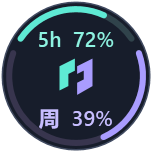
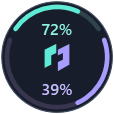
Release v3.2.1: simplify window chrome, orb labels and appearance settings

diff --git a/src/Views.cs b/src/Views.cs
@@ -64,7 +64,7 @@ namespace TokenMonitor {
         public Shell(string title,string sub,string accent,double width,double height,bool floating,bool formal=false) {
             this.formal=formal;
             Title=title=="Token Monitor"?title:title+" · Token Monitor";Width=width;Height=height;Topmost=floating;ShowInTaskbar=!floating;
-            WindowStyle=formal?WindowStyle.SingleBorderWindow:WindowStyle.None;ResizeMode=formal||floating?ResizeMode.CanResize:ResizeMode.NoResize;AllowsTransparency=!formal;Background=Brushes.Transparent;
+            WindowStyle=WindowStyle.None;ResizeMode=formal?ResizeMode.CanMinimize:floating?ResizeMode.CanResize:ResizeMode.NoResize;AllowsTransparency=true;Background=Brushes.Transparent;
             MinWidth=floating?300:width;MinHeight=floating?210:100;
             FontFamily=new FontFamily("Segoe UI, Microsoft YaHei UI");
             UseLayoutRounding=true;SnapsToDevicePixels=true;
@@ -73,15 +73,16 @@ namespace TokenMonitor {
             Surface=new Border { BorderThickness=new Thickness(1),CornerRadius=new CornerRadius(18),Margin=new Thickness(12),
                 Effect=new DropShadowEffect { BlurRadius=18,ShadowDepth=3,Opacity=0.12,Color=Colors.Black } };
             Appearance.Paint(Surface,Border.BackgroundProperty,"#F5F7F8");Appearance.Paint(Surface,Border.BorderBrushProperty,"#E2E6E8");
-            if(formal) {Surface.Margin=new Thickness(0);Surface.CornerRadius=new CornerRadius(0);Surface.Effect=null;MinWidth=760;MinHeight=560;AutoHeight=false;}
+            if(formal) {Surface.Margin=new Thickness(0);Surface.CornerRadius=new CornerRadius(14);Surface.Effect=null;MinWidth=760;MinHeight=560;AutoHeight=false;}
             var root=new Grid();root.Children.Add(Surface);Content=root;
             var layout=new DockPanel { LastChildFill=true };ContentPanel=layout;Surface.Child=layout;
             SourceInitialized+=(s,e)=>Appearance.ApplyTitleBar(this);
             titleArea=new Border { Padding=new Thickness(19,17,14,14),Background=Brushes.Transparent,Cursor=Cursors.SizeAll };
             titleArea.MouseLeftButtonDown+=(s,e)=> { if(e.ChangedButton==MouseButton.Left && !e.Handled) { try {DragMove();} catch {} } };
             var mark=new Border { Background=UI.Brush(accent),Width=7,Height=7,CornerRadius=new CornerRadius(4),Margin=new Thickness(0,0,8,0),VerticalAlignment=VerticalAlignment.Center };
-            var heading=new StackPanel {Orientation=Orientation.Horizontal};heading.Children.Add(mark);heading.Children.Add(UI.Text(title,14,UI.Ink,true));
-            var words=new StackPanel();words.Children.Add(heading);Subtitle=UI.Text(sub,10.5,UI.Muted);Subtitle.Margin=new Thickness(15,4,0,0);words.Children.Add(Subtitle);
+            FrameworkElement brand=formal?Brand.Mark(28):mark;brand.Margin=new Thickness(0,0,8,0);brand.VerticalAlignment=VerticalAlignment.Center;if(formal)AutomationProperties.SetName(brand,"Token Monitor 标志");
+            var heading=new StackPanel {Orientation=Orientation.Horizontal};heading.Children.Add(brand);heading.Children.Add(UI.Text(title,14,UI.Ink,true));
+            var words=new StackPanel();words.Children.Add(heading);Subtitle=UI.Text(sub,10.5,UI.Muted);Subtitle.Margin=new Thickness(formal?36:15,4,0,0);words.Children.Add(Subtitle);
             var close=UI.Button("×",()=>{if(CloseAction!=null)CloseAction();else Close();},floating?"隐藏此悬浮窗":"收起到托盘");
             close.FontSize=20;close.Padding=new Thickness(8,0,8,2);close.Background=Brushes.Transparent;close.VerticalAlignment=VerticalAlignment.Top;close.Cursor=Cursors.Hand;
             AutomationProperties.SetName(close,floating?"隐藏"+title:"收起控制面板");
@@ -90,7 +91,11 @@ namespace TokenMonitor {
                 var fit=UI.Button("↕",()=>FitToContent(),"贴合内容高度");fit.Padding=new Thickness(7,3,7,3);fit.FontSize=16;fit.Background=Brushes.Transparent;
                 AutomationProperties.SetName(fit,"贴合内容高度");titleButtons.Children.Add(fit);
             }
-            if(!formal)titleButtons.Children.Add(close);
+            if(formal) {
+                var minimize=UI.Button("−",()=>WindowState=WindowState.Minimized,"最小化");minimize.FontSize=20;minimize.Width=38;minimize.Height=34;minimize.Padding=new Thickness(0);minimize.Background=Brushes.Transparent;AutomationProperties.SetName(minimize,"最小化");titleButtons.Children.Add(minimize);
+                close.Width=38;close.Height=34;close.Padding=new Thickness(0);close.ToolTip="关闭窗口，继续在托盘运行";AutomationProperties.SetName(close,"关闭窗口");
+            }
+            titleButtons.Children.Add(close);
             titleArea.Child=UI.Row(words,titleButtons);DockPanel.SetDock(titleArea,Dock.Top);layout.Children.Add(titleArea);
             Scroll=new ScrollViewer { VerticalScrollBarVisibility=ScrollBarVisibility.Auto,HorizontalScrollBarVisibility=ScrollBarVisibility.Disabled,Padding=new Thickness(18,0,18,16),Content=Body };
             layout.Children.Add(Scroll);
@@ -187,7 +192,7 @@ namespace TokenMonitor {
         readonly CardPanel services;
         readonly DashboardCard gptCard,deepCard,openCard;
         public SettingsView SettingsPage {get;private set;}
-        public MainView(MonitorApp app):base("Token Monitor","用量控制中心  /  v3.2.0",UI.Green,1180,760,false,true) {
+        public MainView(MonitorApp app):base("Token Monitor","用量控制中心  /  v3.2.1",UI.Green,1180,760,false,true) {
             this.app=app;
             ResizeMode=ResizeMode.CanMinimize;Width=Math.Min(1180,SystemParameters.WorkArea.Width);Height=Math.Min(760,SystemParameters.WorkArea.Height);MinWidth=Math.Min(760,Width);MinHeight=Math.Min(560,Height);
             ContentPanel.Children.Remove(Scroll);
@@ -221,9 +226,7 @@ namespace TokenMonitor {
             Interval.SelectionChanged+=(s,e)=>{app.Prefs.Interval=new[]{15,30,60,120}[Interval.SelectedIndex];app.Save();app.UpdateLabels();};
             var auto=new StackPanel {Orientation=Orientation.Horizontal};var autoLabel=UI.Text("自动刷新",12,UI.Muted);autoLabel.VerticalAlignment=VerticalAlignment.Center;autoLabel.Margin=new Thickness(0,0,12,0);auto.Children.Add(autoLabel);auto.Children.Add(Interval);auto.Margin=new Thickness(2,3,2,16);Body.Children.Add(auto);
             Refresh=UI.Button("立即刷新",async()=>await app.RefreshAll(true));Refresh.SetResourceReference(Button.BackgroundProperty,"ActionBrush");Refresh.SetResourceReference(Button.ForegroundProperty,"ActionInkBrush");
-            var actions=new StackPanel { Orientation=Orientation.Horizontal };
-            actions.Children.Add(Refresh);var settings=UI.Button("设置",()=>OpenSettings("外观设置"));settings.Margin=new Thickness(8,0,0,0);actions.Children.Add(settings);
-            var exit=UI.Button("退出",()=>app.Quit());exit.Margin=new Thickness(8,0,0,0);actions.Children.Add(exit);TitleButtons.Children.Add(actions);
+            Refresh.Margin=new Thickness(16,0,0,0);auto.Children.Add(Refresh);
             var note=UI.Text("悬浮球可拖动 · 双击展开详情 · 右键打开菜单 · 关闭主界面后继续在托盘运行",10.5,UI.Muted);note.Margin=new Thickness(1,13,0,0);Body.Children.Add(note);
             var updatePanel=new StackPanel {Margin=new Thickness(0,14,0,0)};
             UpdateStatus=UI.Text("启动时及每 6 小时自动检查更新",11,UI.Muted);updatePanel.Children.Add(UpdateStatus);
@@ -238,17 +241,17 @@ namespace TokenMonitor {
             if(SettingsPage!=null&&SettingsPage.Busy)return;
             if(SettingsPage==null)SettingsPage=new SettingsView(app,ShowOverview,true);
             workspace.Children.Clear();workspace.Children.Add(SettingsPage);
-            SettingsPage.SelectPage(page);SelectNavigation(page);Subtitle.Text="设置  /  v3.2.0";
+            SettingsPage.SelectPage(page);SelectNavigation(page);Subtitle.Text="设置  /  v3.2.1";
         }
         public void HistoryChanged() {if(history!=null&&workspace.Children.Contains(history))history.Render();}
         public void ShowHistory() {
             if(SettingsPage!=null&&SettingsPage.Busy)return;
             if(SettingsPage!=null){SettingsPage.ClearSecrets();SettingsPage=null;}
-            history=new HistoryView(app);workspace.Children.Clear();workspace.Children.Add(history);SelectNavigation("历史趋势");Subtitle.Text="历史趋势  /  v3.2.0";
+            history=new HistoryView(app);workspace.Children.Clear();workspace.Children.Add(history);SelectNavigation("历史趋势");Subtitle.Text="历史趋势  /  v3.2.1";
         }
         public void ShowOverview() {
             if(SettingsPage!=null){if(SettingsPage.Busy)return;SettingsPage.ClearSecrets();SettingsPage=null;}
-            workspace.Children.Clear();workspace.Children.Add(Scroll);SelectNavigation("账户概览");Subtitle.Text="用量控制中心  /  v3.2.0";
+            workspace.Children.Clear();workspace.Children.Add(Scroll);SelectNavigation("账户概览");Subtitle.Text="用量控制中心  /  v3.2.1";
         }
         public void RenderUpdate(AvailableRelease release,string message) {
             UpdateStatus.Text=(release==null?"":"发现新版本 "+release.Tag+"，可下载更新。")+(message==null?"":(release==null?"":"\n")+message)+(release==null||string.IsNullOrWhiteSpace(release.Notes)?"":"\n\n"+release.Notes);
@@ -393,9 +396,6 @@ namespace TokenMonitor {
             AutomationProperties.SetName(orbSize,"ChatGPT 悬浮球大小");
             var orbRow=UI.Row(UI.Text("悬浮球大小",13,UI.Ink,true),orbSize);orbRow.Margin=new Thickness(2,0,2,12);Body.Children.Add(orbRow);
             var orbHint=UI.Text("100% 为 76 个逻辑像素；实际尺寸取决于显示器和 Windows 缩放。上下数值均为剩余额度。",11,UI.Muted);orbHint.Margin=new Thickness(2,0,2,16);Body.Children.Add(orbHint);
-            var refreshInterval=new ComboBox {Width=160,Height=32,ItemsSource=new[]{"15 秒","30 秒","60 秒","120 秒"}};
-            refreshInterval.SetBinding(ComboBox.SelectedIndexProperty,new System.Windows.Data.Binding("SelectedIndex"){Source=app.Main.Interval,Mode=System.Windows.Data.BindingMode.TwoWay});
-            AutomationProperties.SetName(refreshInterval,"设置自动刷新间隔");Body.Children.Add(UI.Row(UI.Text("自动刷新",13,UI.Ink,true),refreshInterval));
             Body=pages["ChatGPT 连接"];
             Body.Children.Add(UI.Text("使用本机 Codex 账号",18,UI.Ink,true));
             var chatHint=UI.Text("1. 在 Codex 中登录你的 ChatGPT 账号。\n2. 点击下方连接，读取 Codex / ChatGPT Work 共用额度。\n3. 返回概览，按需开启浮窗或悬浮球。",13,UI.Muted);chatHint.Margin=new Thickness(0,16,0,20);Body.Children.Add(chatHint);
@@ -511,7 +511,7 @@ namespace TokenMonitor {
                 if(SelectedPage=="DeepSeek 密钥")input.Clear();LocalStorage.Notice=null;Appearance.Apply(app.Prefs.Appearance);if(SelectedPage!="OpenAI 密钥")showMessage("已保存"+SelectedPage+"。");if(SelectedPage=="DeepSeek 密钥"){app.ResetDeepCooldown();await app.RefreshDeep(true);}
             });Appearance.Paint(save,Button.BackgroundProperty,UI.Green);save.Foreground=Brushes.White;
             save.Content="保存密钥设置";saveButton=save;save.HorizontalAlignment=HorizontalAlignment.Left;footer.Children.Add(save);
-            Body=pages["关于软件"];var aboutLogo=Brand.Mark(64);aboutLogo.HorizontalAlignment=HorizontalAlignment.Left;Body.Children.Add(aboutLogo);Body.Children.Add(UI.Text("Token Monitor",23,UI.Ink,true));Body.Children.Add(UI.Text("版本 v3.2.0 · Windows 桌面用量工具",13,UI.Muted));
+            Body=pages["关于软件"];var aboutLogo=Brand.Mark(64);aboutLogo.HorizontalAlignment=HorizontalAlignment.Left;Body.Children.Add(aboutLogo);Body.Children.Add(UI.Text("Token Monitor",23,UI.Ink,true));Body.Children.Add(UI.Text("版本 v3.2.1 · Windows 桌面用量工具",13,UI.Muted));
             var about=UI.Text("ChatGPT 悬浮球展示 Codex 与 ChatGPT Work 共用的额度。独立查看 DeepSeek 余额及 OpenAI API 用量。",13,UI.Muted);about.Margin=new Thickness(0,20,0,24);Body.Children.Add(about);
             var updateInfo=UI.Text("",12,UI.Muted);updateInfo.SetBinding(TextBlock.TextProperty,new System.Windows.Data.Binding("Text"){Source=app.Main.UpdateStatus});Body.Children.Add(updateInfo);
             var aboutActions=new WrapPanel {Margin=new Thickness(0,14,0,18)};

diff --git a/src/Program.cs b/src/Program.cs
@@ -15,9 +15,9 @@ using Microsoft.Win32;
 using System.Reflection;
 using Forms=System.Windows.Forms;
 
-[assembly: AssemblyVersion("3.2.0.0")]
-[assembly: AssemblyFileVersion("3.2.0.0")]
-[assembly: AssemblyInformationalVersion("3.2.0")]
+[assembly: AssemblyVersion("3.2.1.0")]
+[assembly: AssemblyFileVersion("3.2.1.0")]
+[assembly: AssemblyInformationalVersion("3.2.1")]
 
 namespace TokenMonitor {
     public sealed partial class MonitorApp : Application {
@@ -264,7 +264,7 @@ namespace TokenMonitor {
                 while(gptBusy||deepBusy||openAiBusy) {if(quitting)throw new OperationCanceledException();await Task.Delay(100);}
                 if(quitting)throw new OperationCanceledException();
                 Save();StorageLocation.Relocate(destination,Prefs);
-                Main.Subtitle.Text="用量，随时可见  ·  v3.2.0";
+                Main.Subtitle.Text="用量，随时可见  ·  v3.2.1";
             } finally {changingStorage=false;}
         }
         public void Quit() {
@@ -311,24 +311,24 @@ namespace TokenMonitor {
             }
             if(offline) {
                 checks["updates_disabled_in_offline_tests"]=updateTimer==null;
-                Main.RenderUpdate(null,"当前已是最新版本 v3.2.0");
+                Main.RenderUpdate(null,"当前已是最新版本 v3.2.1");
                 checks["updates_latest_state"]=Main.UpdateStatus.Text.Contains("最新版本")&&Main.DownloadUpdate.Content.ToString()=="发布页 ↗";
-                var demo=UpdateClient.Parse(UpdateTests.Release("v3.2.0"));
+                var demo=UpdateClient.Parse(UpdateTests.Release("v3.2.1"));
                 Main.RenderUpdate(demo,null);await Dispatcher.InvokeAsync(()=>{},DispatcherPriority.ApplicationIdle);
-                checks["updates_available_state"]=Main.UpdateStatus.Text.Contains("v3.2.0")&&Main.DownloadUpdate.Content.ToString()=="下载更新 ↗";
+                checks["updates_available_state"]=Main.UpdateStatus.Text.Contains("v3.2.1")&&Main.DownloadUpdate.Content.ToString()=="下载更新 ↗";
                 checks["updates_available_fits"]=Main.Scroll.ExtentHeight<=Main.Scroll.ViewportHeight+0.5;
                 UI.SaveImage(Main,Path.Combine(smokeFolder,"update-available.png"));
                 Main.RenderUpdate(demo,"无法检查更新，可稍后重试或打开发布页。");
-                checks["updates_failure_preserves_notice"]=Main.UpdateStatus.Text.Contains("v3.2.0")&&Main.DownloadUpdate.Content.ToString()=="下载更新 ↗";
+                checks["updates_failure_preserves_notice"]=Main.UpdateStatus.Text.Contains("v3.2.1")&&Main.DownloadUpdate.Content.ToString()=="下载更新 ↗";
                 Main.RenderUpdate(null,"检查更新超时，可稍后重试或打开发布页。");
                 checks["updates_failure_is_not_latest"]=!Main.UpdateStatus.Text.Contains("最新版本");
                 Main.RenderUpdate(null,"启动时及每 6 小时自动检查更新");
             }
             if(offline) {
-                checks["main_is_standard_window"]=Main.WindowStyle==WindowStyle.SingleBorderWindow&&!Main.Topmost&&Main.ShowInTaskbar;
+                checks["main_has_custom_chrome"]=Main.WindowStyle==WindowStyle.None&&Main.ResizeMode==ResizeMode.CanMinimize&&!Main.Topmost&&Main.ShowInTaskbar;
                 SetOrbMode(true);await Dispatcher.InvokeAsync(()=>{},DispatcherPriority.ApplicationIdle);
                 checks["orb_replaces_details"]=Orb.IsVisible&&!Gpt.IsVisible&&Prefs.Gpt;
-                checks["orb_shows_remaining"]=Orb.ShortText.Text.Contains("72%")&&Orb.LongText.Text.Contains("39%");
+                checks["orb_shows_remaining"]=Orb.ShortText.Text=="72%"&&Orb.LongText.Text=="39%";
                 foreach(int scale in OrbView.Scales){Prefs.OrbScale=scale;Orb.ApplyScale();Orb.UpdateLayout();checks["orb_size_"+scale]=Math.Abs(Orb.Width-76.0*scale/100)<1.1;UI.SaveImage(Orb,Path.Combine(smokeFolder,"orb-"+scale+".png"));}
                 Orb.Render(null,null,false);checks["orb_unknown_not_zero"]=Orb.ShortText.Text.Contains("—")&&Orb.LongText.Text.Contains("—");
                 var boundary=SampleGpt();boundary.Groups[0].Windows[0].Used=100;boundary.Groups[0].Windows[1].Used=0;
@@ -359,7 +359,7 @@ namespace TokenMonitor {
                     UI.SaveImage(Deep,Path.Combine(smokeFolder,"deepseek-"+theme+".png"));
                     OpenAi.UpdateLayout();UI.SaveImage(OpenAi,Path.Combine(smokeFolder,"openai-"+theme+".png"));
                     Prefs.Appearance=theme;Main.OpenSettings("外观设置");Main.UpdateLayout();UI.SaveImage(Main,Path.Combine(smokeFolder,"settings-"+theme+".png"));
-                    checks[theme+"_native_titlebar_matches"]=Appearance.TitleBarMatches(Main);
+                    checks[theme+"_custom_chrome"]=Main.WindowStyle==WindowStyle.None&&Main.Surface.CornerRadius.TopLeft==14;
                     foreach(string page in new[]{"DeepSeek 密钥","OpenAI 密钥","数据目录","关于软件"}) {Main.SettingsPage.SelectPage(page);Main.UpdateLayout();UI.SaveImage(Main,Path.Combine(smokeFolder,"settings-"+theme+"-"+page+".png"));}
                     Main.ShowOverview();
                     SetOrbMode(true);Orb.ContextMenu.PlacementTarget=Orb;Orb.ContextMenu.IsOpen=true;await Dispatcher.InvokeAsync(()=>{},DispatcherPriority.ApplicationIdle);

diff --git a/src/OrbView.cs b/src/OrbView.cs
@@ -32,7 +32,7 @@ namespace TokenMonitor {
             var disc=new Ellipse {Width=98,Height=98,Fill=UI.Brush("#171D2B"),Stroke=UI.Brush("#414B61"),StrokeThickness=1};Canvas.SetLeft(disc,1);Canvas.SetTop(disc,1);canvas.Children.Add(disc);
             AddArc(canvas,214,112,"#30434B");AddArc(canvas,340,220,"#38354E");
             shortArc=AddArc(canvas,214,112,"#5EEAD4");longArc=AddArc(canvas,340,220,"#A99CFF");
-            ShortText=Label(canvas,16,"5h  —", "#8EF3E1");LongText=Label(canvas,68,"周  —","#C7BEFF");
+            ShortText=Label(canvas,16,"—", "#8EF3E1");LongText=Label(canvas,68,"—","#C7BEFF");
             var mark=Brand.Mark(29);Canvas.SetLeft(mark,35.5);Canvas.SetTop(mark,37);canvas.Children.Add(mark);
             state=Label(canvas,43,"", "#FFBF75");state.FontSize=13;state.Width=18;Canvas.SetLeft(state,74);
             Content=new Viewbox {Child=canvas};ApplyScale();Loaded+=(s,e)=>Clamp();
@@ -73,16 +73,16 @@ namespace TokenMonitor {
             var group=data==null?null:data.Groups.FirstOrDefault(x=>x.Id=="codex");
             var shortWindow=group==null?null:group.Windows.FirstOrDefault(x=>x.Label=="5 小时额度");
             var week=group==null?null:group.Windows.FirstOrDefault(x=>x.Label=="每周额度");
-            Draw(shortArc,ShortText,shortWindow,214,112,"5h");Draw(longArc,LongText,week,340,220,"周");
+            Draw(shortArc,ShortText,shortWindow,214,112);Draw(longArc,LongText,week,340,220);
             state.Text=error!=null?"!":busy?"·":"";
             shortArc.Opacity=longArc.Opacity=error==null?1:0.35;
-            ToolTip="ChatGPT · Codex / Work 共用剩余额度\n"+ShortText.Text+" / "+LongText.Text+(error!=null?"\n更新失败（显示上次数据）："+error:busy?"\n正在刷新…":"")+(data==null?"":"\n上次同步 "+UI.Clock(data.Fetched))+"\n双击展开详情 · 右键菜单";
+            ToolTip="ChatGPT · Codex / Work 共用剩余额度\n"+"5 小时："+ShortText.Text+" / 每周："+LongText.Text+(error!=null?"\n更新失败（显示上次数据）："+error:busy?"\n正在刷新…":"")+(data==null?"":"\n上次同步 "+UI.Clock(data.Fetched))+"\n双击展开详情 · 右键菜单";
             AutomationProperties.SetName(this,ToolTip.ToString());
         }
-        static void Draw(Path arc,TextBlock text,QuotaWindow window,double start,double sweep,string label){
+        static void Draw(Path arc,TextBlock text,QuotaWindow window,double start,double sweep){
             double? remaining=window==null?null:window.Remaining;
             arc.Data=Arc(start,remaining.HasValue?sweep*Math.Max(0,Math.Min(100,remaining.Value))/100:0);
-            text.Text=label+"  "+(remaining.HasValue?remaining.Value.ToString("0")+"%":"—");
+            text.Text=remaining.HasValue?remaining.Value.ToString("0")+"%":"—";
         }
     }
 }

diff --git a/src/DashboardUiTests.cs b/src/DashboardUiTests.cs
@@ -12,6 +12,11 @@ namespace TokenMonitor {
         public static async Task Run(MonitorApp app,IDictionary<string,object> checks,string folder) {
             var main=app.Main;
             main.ShowOverview();app.UpdateLabels();main.UpdateLayout();
+            var minimize=SettingsUiTests.Walk(main).OfType<Button>().First(x=>System.Windows.Automation.AutomationProperties.GetName(x)=="最小化");
+            var close=SettingsUiTests.Walk(main).OfType<Button>().First(x=>System.Windows.Automation.AutomationProperties.GetName(x)=="关闭窗口");
+            minimize.RaiseEvent(new RoutedEventArgs(Button.ClickEvent));checks["custom_minimize_works"]=main.WindowState==WindowState.Minimized;main.WindowState=WindowState.Normal;
+            close.RaiseEvent(new RoutedEventArgs(Button.ClickEvent));checks["custom_close_hides_to_tray"]=!main.IsVisible;main.Show();main.UpdateLayout();
+            checks["header_uses_brand_logo"]=SettingsUiTests.Walk(main).OfType<Viewbox>().Any(x=>System.Windows.Automation.AutomationProperties.GetName(x)=="Token Monitor 标志");
             var text=SettingsUiTests.Walk(main).OfType<TextBlock>().Select(x=>x.Text).ToList();
             checks["dashboard_two_remaining_percentages"]=text.Contains("72%")&&text.Contains("39%");
             checks["dashboard_today_and_month"]=text.Contains("150,200")&&text.Contains("5,098,940");

diff --git a/src/SettingsUiTests.cs b/src/SettingsUiTests.cs
@@ -14,7 +14,8 @@ namespace TokenMonitor {
             var api=nodes.OfType<PasswordBox>().First(x=>AutomationProperties.GetName(x)=="新的 OpenAI API Key");
             var appearance=nodes.OfType<ComboBox>().First(x=>AutomationProperties.GetName(x)=="外观主题");
             var scale=nodes.OfType<ComboBox>().First(x=>AutomationProperties.GetName(x)=="ChatGPT 悬浮球大小");
-            var interval=nodes.OfType<ComboBox>().First(x=>AutomationProperties.GetName(x)=="设置自动刷新间隔");
+            var interval=app.Main.Interval;
+            checks["appearance_excludes_refresh_interval"]=!nodes.OfType<TextBlock>().Any(x=>x.Text=="自动刷新");
             var save=nodes.OfType<Button>().First(x=>Equals(x.Content,"保存密钥设置"));
             var before=File.ReadAllBytes(Paths.OpenAiKey);
             api.Password="sk-test-only-unsubmitted-change";

diff --git a/README.en.md b/README.en.md
@@ -12,7 +12,7 @@ Manage your accounts in the control center, then keep usage nearby with a compac
 
 The upper arc shows 5-hour remaining quota; the lower arc shows weekly remaining quota. Double-click to expand. Screenshots use simulated data.
 
-[Download for Windows](https://github.com/Ricki0613/TokenMonitor/releases/download/v3.2.0/TokenMonitor-v3.2.0-windows-x64.zip) · [Release history](https://github.com/Ricki0613/TokenMonitor/releases) · [Changelog](CHANGELOG.md) · [Report an issue](https://github.com/Ricki0613/TokenMonitor/issues/new/choose) · [中文](README.md)
+[Download for Windows](https://github.com/Ricki0613/TokenMonitor/releases/download/v3.2.1/TokenMonitor-v3.2.1-windows-x64.zip) · [Release history](https://github.com/Ricki0613/TokenMonitor/releases) · [Changelog](CHANGELOG.md) · [Report an issue](https://github.com/Ricki0613/TokenMonitor/issues/new/choose) · [中文](README.md)
 
 ## Update checks
 
@@ -41,7 +41,7 @@ A data-first dashboard with two ChatGPT quota bars, prominent DeepSeek balances,
 
 ## Quick start
 
-1. Download [TokenMonitor-v3.2.0-windows-x64.zip](https://github.com/Ricki0613/TokenMonitor/releases/download/v3.2.0/TokenMonitor-v3.2.0-windows-x64.zip) and extract the entire archive.
+1. Download [TokenMonitor-v3.2.1-windows-x64.zip](https://github.com/Ricki0613/TokenMonitor/releases/download/v3.2.1/TokenMonitor-v3.2.1-windows-x64.zip) and extract the entire archive.
 2. Run `Install.cmd`. Accept the default locations or enter preferred installation and data paths; the helper creates desktop and Start menu shortcuts. You can also run the extracted `TokenMonitor.exe` directly.
 3. For GPT usage, install Codex and sign in locally. For DeepSeek, enter your own API Key in settings (设置). For OpenAI, sign in with an ordinary API Key; historical usage also requires an organization Admin API Key and the matching API Key ID.
 4. Enable the windows you want. The OpenAI window starts disabled when upgrading an existing configuration and can be shown explicitly after connecting.

diff --git a/docs/RELEASE_v3.2.1.md b/docs/RELEASE_v3.2.1.md
@@ -1,0 +1,15 @@
+# Token Monitor v3.2.1
+
+发布日期：2026-10-26
+
+- 外观设置只保留主题、界面字号和悬浮球大小；自动刷新与立即刷新统一放在账户概览。
+- 悬浮球去掉「5h」和「周」标签，仅显示两行剩余额度百分比；悬停提示仍说明上方 5 小时、下方每周。
+- 移除主窗口的系统标题栏和最大化入口，改用一体化圆角界面。右上角只保留最小化、关闭按钮，顶部空白区域可拖动窗口。
+- 左上角使用 Token Monitor logo，替换原来的绿色圆点。
+- 关闭窗口继续在托盘运行；完全退出请使用托盘菜单。保留 v3.2.0 的历史趋势、更新回退及原有配置。
+
+验证：79 项基础测试、123 项离线界面检查、6 项安装包检查。界面示例使用模拟数据。
+
+升级：v3.2.0 可在「关于软件」下载、校验后重启更新；也可解压 ZIP 后运行 Install.cmd，选择原安装目录。保留数据目录与上一版程序。
+
+![主界面（模拟数据）](https://raw.githubusercontent.com/Ricki0613/TokenMonitor/v3.2.1/assets/overview.png)

diff --git a/CHANGELOG.md b/CHANGELOG.md
@@ -1,5 +1,13 @@
 # 更新记录
 
+## v3.2.1 · 2026-10-26
+
+- 外观设置只保留主题、界面字号和悬浮球大小；自动刷新与立即刷新统一放在账户概览。
+- 悬浮球去掉「5h」和「周」标签，仅显示两行剩余额度百分比；悬停提示仍说明上方 5 小时、下方每周。
+- 移除主窗口的系统标题栏和最大化入口，改用一体化圆角界面。右上角只保留最小化、关闭按钮，顶部空白区域可拖动窗口。
+- 左上角使用 Token Monitor logo，替换原来的绿色圆点。
+- 关闭窗口继续在托盘运行；完全退出请使用托盘菜单。保留 v3.2.0 的历史趋势、更新回退及原有配置。
+
 ## v3.2.0 · 2026-10-26
 
 - 新增「历史趋势」：近 7 天／30 天查看 ChatGPT 剩余额度、DeepSeek 余额变化和 OpenAI 每日 tokens。记录保存在本机，保留 90 天。
